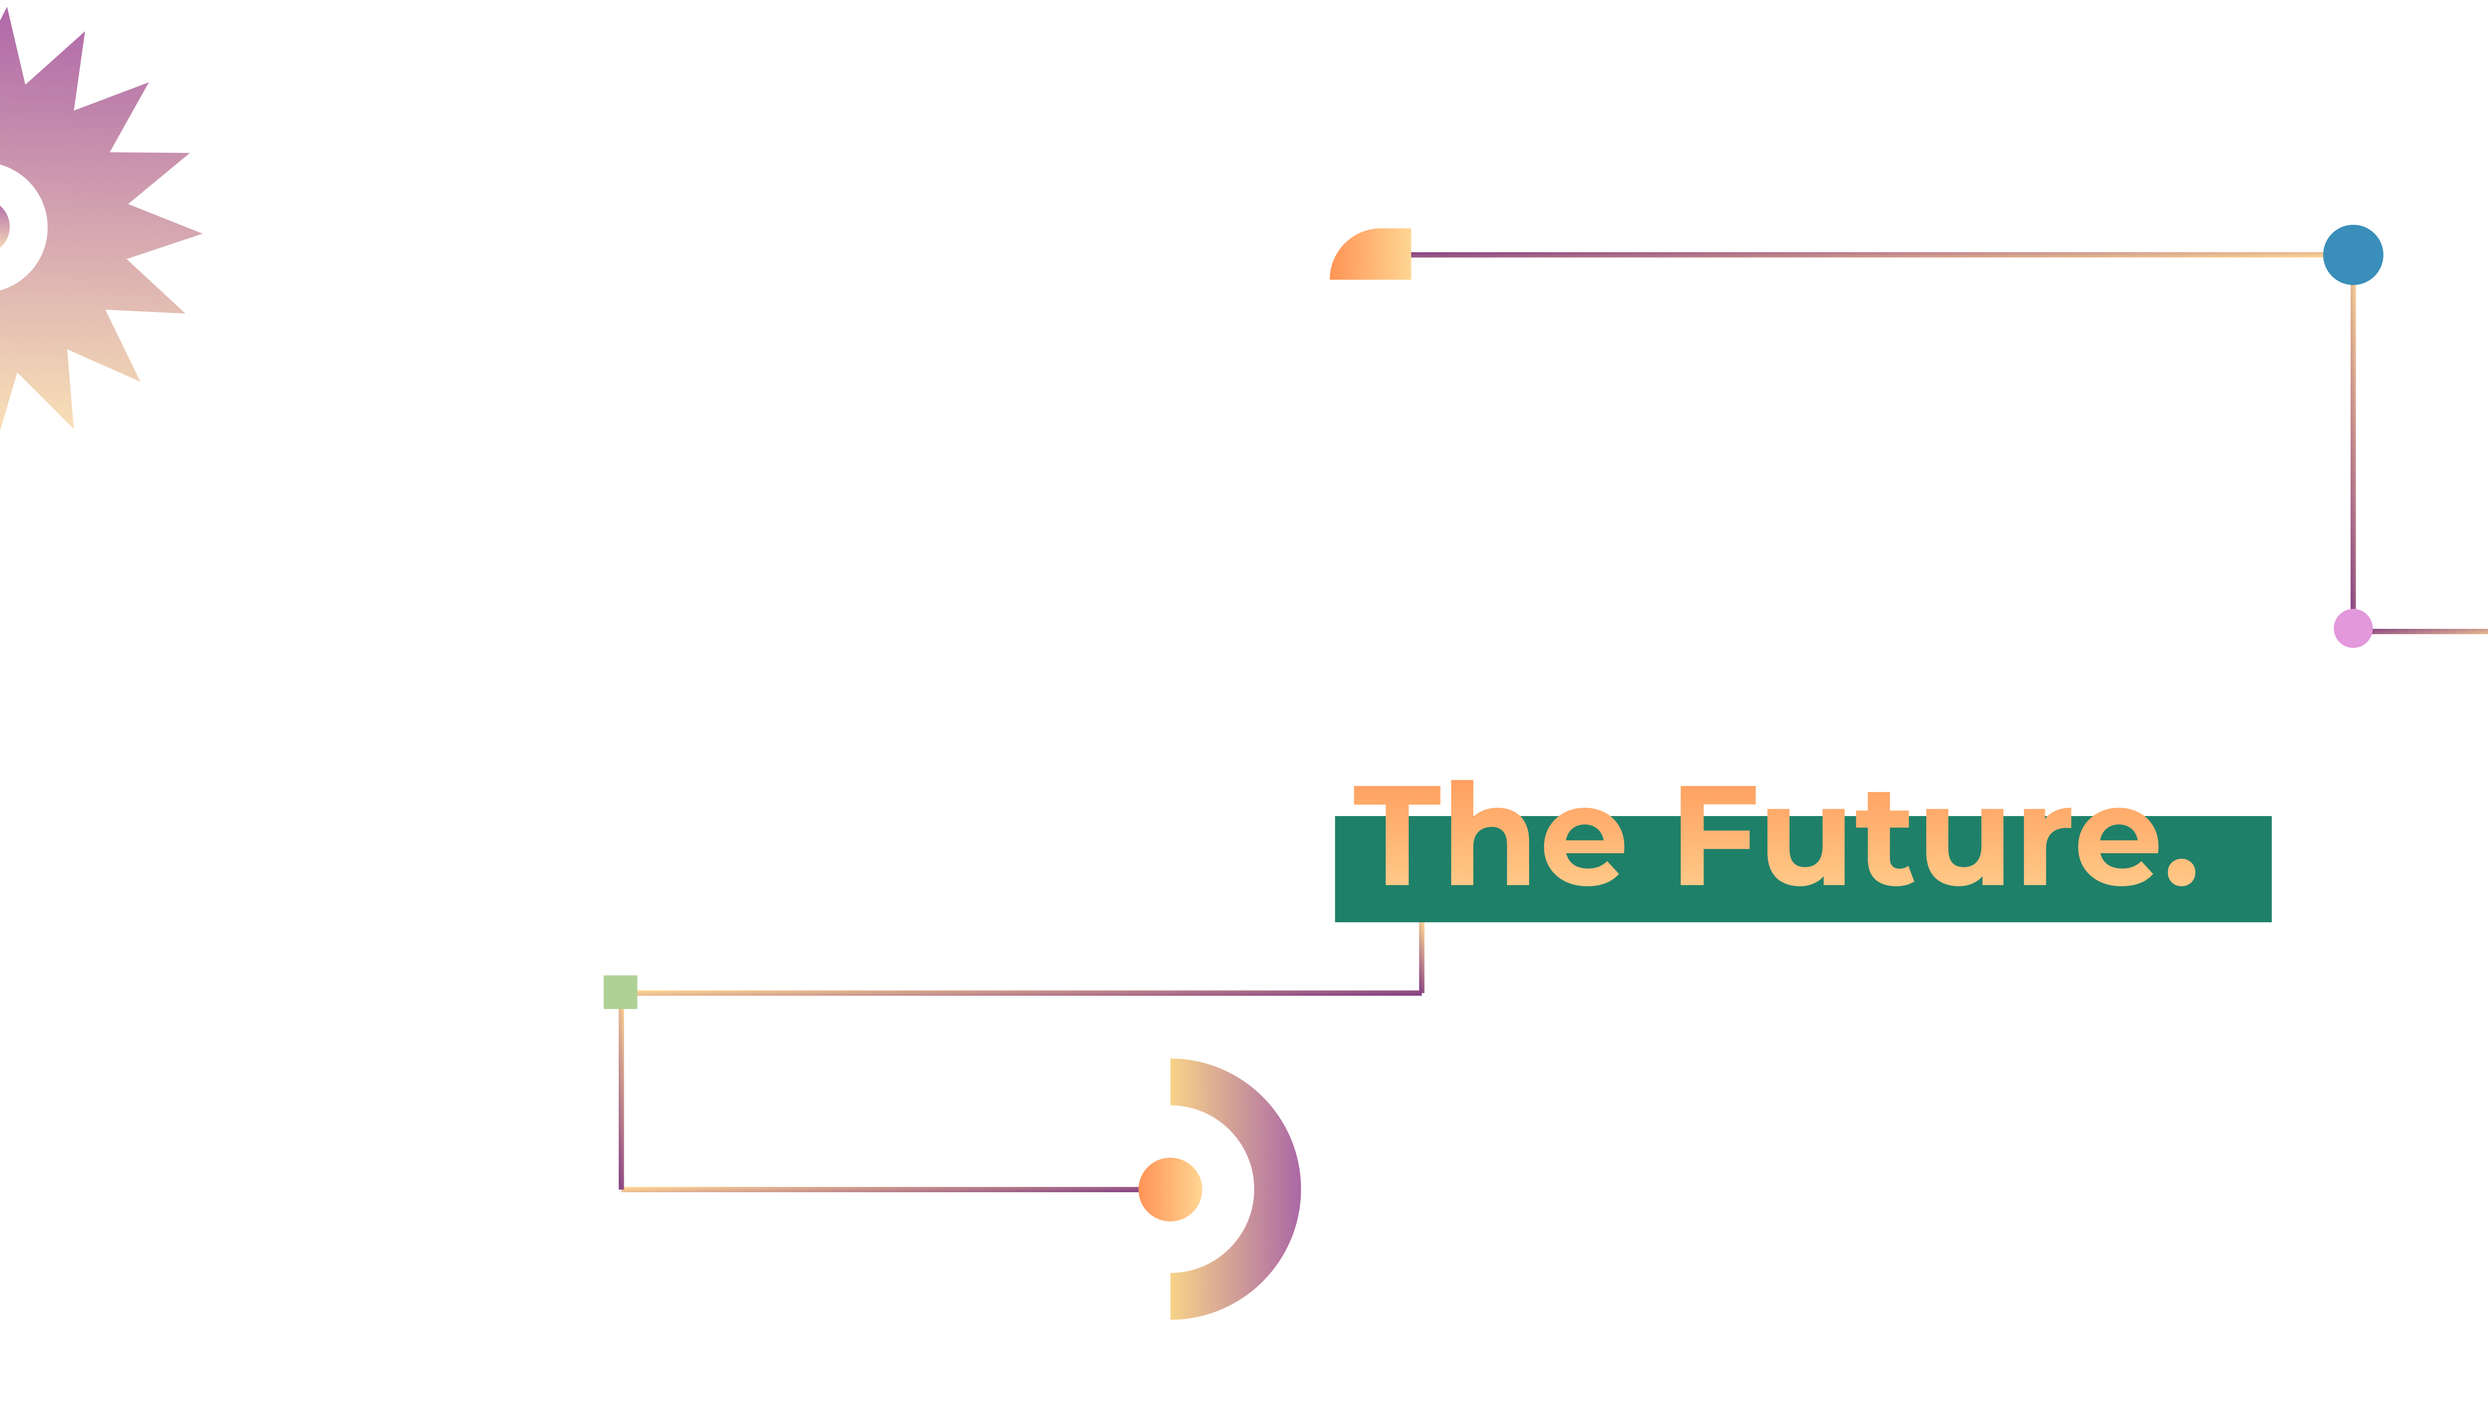
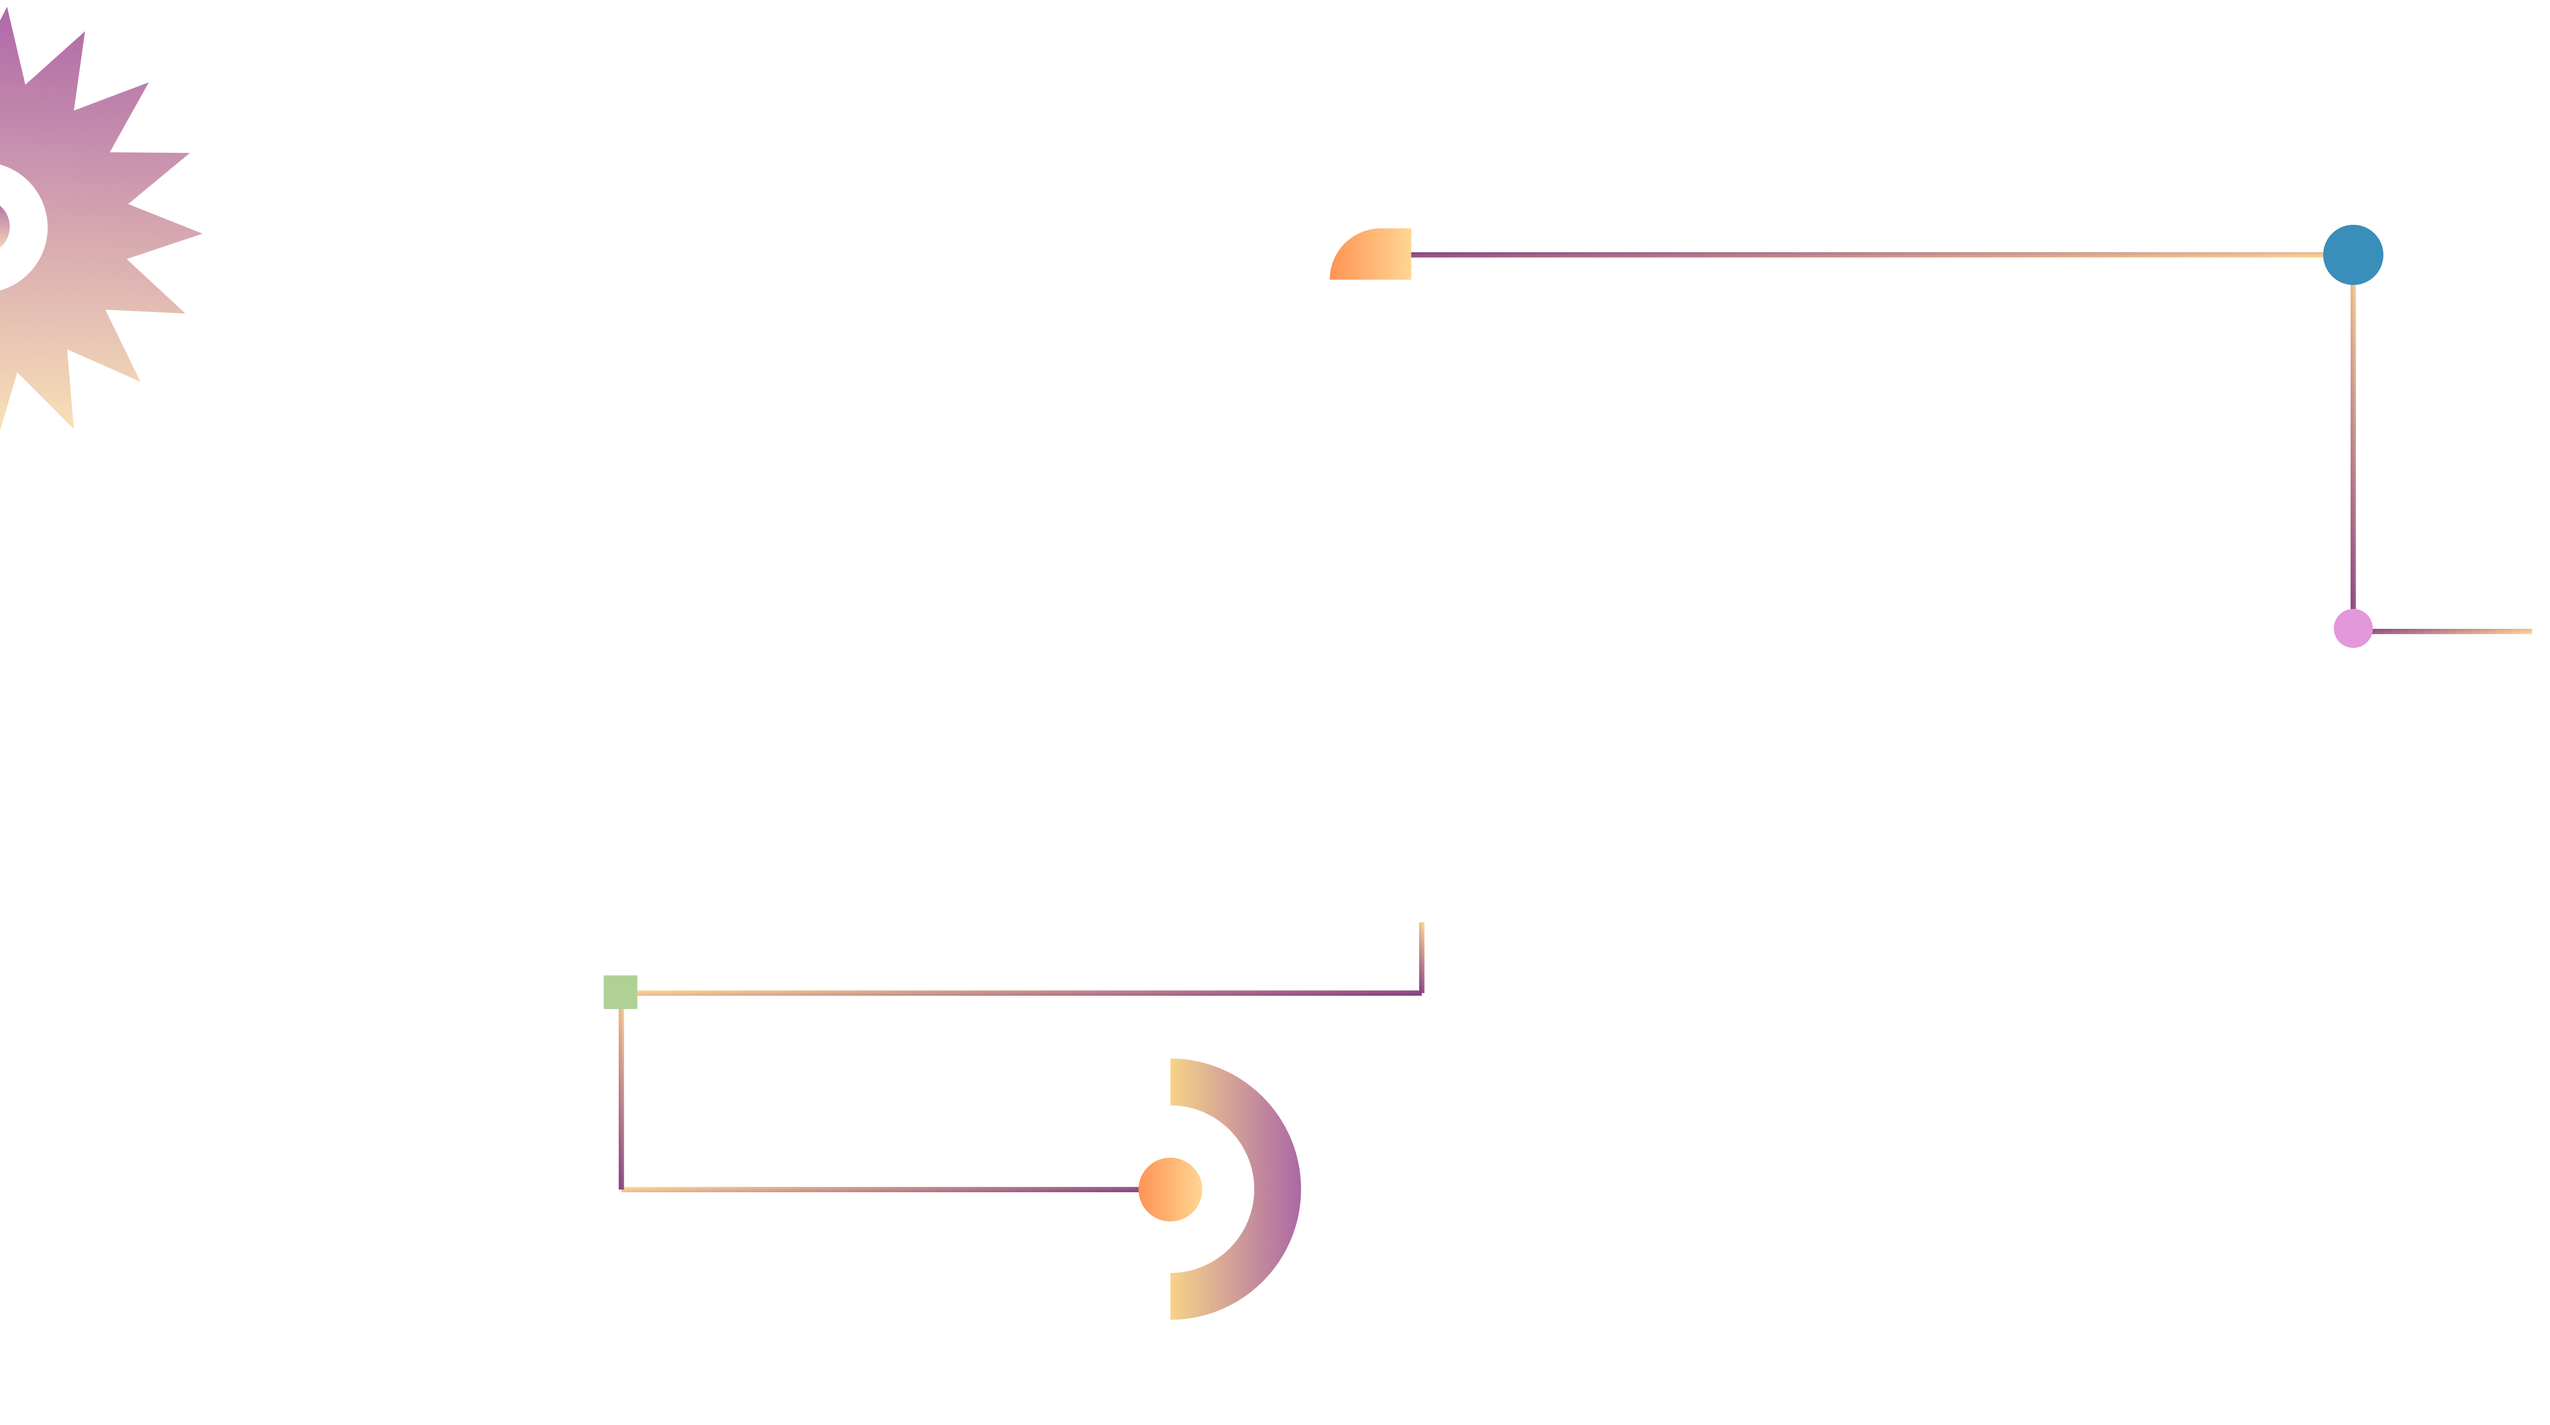
Is 65 fix landing page ise (#90)
* update landing ISE discover

* update quote on discover ISE Landing

* update quote section sm size

* fix(65): update hero section

* fix(65):update section

* fix(65): update hero section

* fix(65): update discover yourself quote

* fix: coming up section

---------

diff --git a/resources/views/livewire/ise-landing.blade.php b/resources/views/livewire/ise-landing.blade.php
@@ -5,14 +5,16 @@
     <div
         class="relative bg-[#121316] w-full h-[362.4px] xs:h-[600px]  sm:h-[660px] md:h-[700px] lg:h-[1000px] xl:h-[1348px] 2xl:h-[1500px] ">
         <div class="relative ">
-            <img class="absolute h-[362px] xs:h-[600px] sm:h-[660px] md:h-[700px] lg:h-[1000px] xl:h-[1348px] 2xl:h-[1500px]  w-full "
-                src="{{ asset('/images/landing/hero.png ') }}">
+            <img class="absolute h-[362px] xs:h-[600px] sm:h-[660px] md:h-[700px] lg:h-[1000px] xl:h-[1348px] 2xl:h-[1500px] w-full"
+                src="{{ asset('/images/landing/hero.png') }}">
+            <img class="absolute w-[157.44px] xs:w-[207.44px] sm:w-[307.44px] md:w-[347.44px] lg:w-[467.44px] xl:w-[527.44px] 2xl:w-[737.44px] left-1/2 top-[150px] xs:top-[235px] sm:top-[275px] md:top-[290px] lg:top-[430px] xl:top-[550px] 2xl:top-[630px] transform -translate-x-1/2 -translate-y-1/2"
+                src="{{ asset('/images/landing/planet.png') }}" alt="">
             <div class="relative ">
-                <h1 class=" text-[18.82px] xs:text-[32px] sm:text-[35px] md:text-[40px] lg:text-[55px] xl:text-[70px] 2xl:text-[88px] text-center text-[#FFEEE4] font-semibold pt-[113px] xs:pt-[185px] sm:pt-[208px] md:pt-[204px] lg:pt-[324px]  xl:pt-[424px] 2xl:pt-[450px]  "data-aos-duration="1500"
+                <h1 class=" text-[18.82px] xs:text-[25px] sm:text-[35px] md:text-[40px] lg:text-[55px] xl:text-[70px] 2xl:text-[88px] text-center text-[#FFEEE4] font-semibold pt-[113px] xs:pt-[185px] sm:pt-[208px] md:pt-[204px] lg:pt-[324px]  xl:pt-[424px] 2xl:pt-[450px]  "data-aos-duration="1500"
                     data-aos="fade-down" {{-- x-intersect="$el.classList.add('opacity-100','translate-y-0')" --}}>
                     Unleash Your Future
                 </h1>
-                <h1 class=" text-[29.57px] xs:text-[52px] sm:text-[56px] md:text-[69px] lg:text-[85px] xl:text-[110px] 2xl:text-[135px] text-center text-[#FFEEE4] font-extrabold mt-[0px] "data-aos="fade-up"
+                <h1 class=" text-[29.57px] xs:text-[42px] sm:text-[56px] md:text-[69px] lg:text-[85px] xl:text-[110px] 2xl:text-[135px] text-center text-[#FFEEE4] font-extrabold mt-[0px] "data-aos="fade-up"
                     data-aos-duration="1500">
                     <span
                         class="bg-gradient-to-b from-[#FF9355] to-[#FFD693] inline-block text-transparent bg-clip-text">#</span>ProvectaFutura
@@ -58,9 +60,9 @@
     {{-- About section --}}
 
     {{-- Coming Up section --}}
-    <div class="mt-[-2px] bg-[#121316] w-full h-[580px] md:h-auto">
+    <div class="mt-[-2px] bg-[#121316] w-full h-[580px] md:h-auto pt-16 md:pt-0">
         <h1 data-aos="zoom-in"
-            class=" text-center text-white font-bold text-[24px] md:text-[45px] lg:text-[56px] xl:text-[72px] pb-[40px] xl:pb-[85px] xl:pt-[70px]">
+            class="-mb-20 md:mb-0 text-center text-white font-bold text-[24px] md:text-[45px] lg:text-[56px] xl:text-[72px] pb-[40px] xl:pb-[85px] xl:pt-[70px]">
             Coming up
         </h1>
         <div class="relative">
@@ -87,8 +89,10 @@
                                 kegiatan ISE! 2023. Secara umum, Grand Talkshow akan membahas mengenai isu teknologi
                                 terkini dan potensinya di kalangan masyarakat luas.
                             </p>
-                            <a href="/login" >
-                                <button class="mt-[4px] md:mt-[12px] lg:mt-[20px] bg-gradient-to-r from-[#D1692D] to-[#FFBF7E] text-white rounded-3xl w-[70px] md:w-[102px] lg:w-[172px] h-[20px] md:h-[30px] lg:h-[39px] text-center font-semibold  text-[8px] md:text-[12px] lg:text-[16px] transform transition duration-300 hover:scale-105">Register Now</button>
+                            <a href="/login">
+                                <button
+                                    class="mt-[4px] md:mt-[12px] lg:mt-[20px] bg-gradient-to-r from-[#D1692D] to-[#FFBF7E] text-white rounded-3xl w-[70px] md:w-[102px] lg:w-[172px] h-[20px] md:h-[30px] lg:h-[39px] text-center font-semibold  text-[8px] md:text-[12px] lg:text-[16px] transform transition duration-300 hover:scale-105">Register
+                                    Now</button>
 
                             </a>
                             {{-- <a href="#"
@@ -106,35 +110,61 @@
 
     {{-- What's new section --}}
     <div
-        class="mt-[-2px] bg-[#121316] w-full h-[291.05px] md:h-[600px] lg:h-[761px] xl:h-[1000px] pt-0 lg:pt-[70px] xl:pt-[73px] ">
+        class="relative mt-[-2px] bg-[#121316] w-full h-[291.05px] md:h-[600px] lg:h-[761px] xl:h-[1000px] pt-0 lg:pt-[70px] xl:pt-[73px] ">
         <div class="relative">
-            <img class="absolute xl:h-[677.8px] xl:w-[1429px] mt-[68px] md:mt-[145px] lg:mt-[190px] xl:mt-[258px] pr-[28px] md:pr-[45px] lg:pr-[85px] xl:pr-[85px] 2xl:pr-[0px]"
-                src="{{ asset('/images/landing/background-1.png ') }}">
-            <h1 data-aos="zoom-in"
-                class="text-center text-white font-bold text-[24px] md:text-[45px] lg:text-[56px] xl:text-[72px] pt-[19px] xl:pt-[73px]">
-                What’s New</h1>
-            <img class="w-[250px] md:w-[470px] lg:w-[600px] xl:w-[860px] h-[104px] md:h-[167px] lg:h-[260px] xl:h-[388px] mt-[16px] md:mt-[108px] mx-auto transform transition duration-300 hover:scale-105"
-                src="{{ asset('/images/landing/whatsnewimage.png ') }}">
-            <div class="text-center">
-                <h1
-                    class="text-white font-bold text-[16px] xl:text-[24px] text-center mt-[10px] md:mt-[33px]  mb-[5.3px] xl:mb-[20px] ">
-                    PARADIGM</h1>
-                <h1 class="text-white font-medium text-[14px] xl:text-[18px] text-center mb-[8.62px] xl:mb-[36px]">THE
-                    EXCITEMENT OF A LIFETIME</h1>
-                {{-- <p class="bg-gradient-to-r from-[#006C56] to-[#AFD196] inline-block text-transparent bg-clip-text ">Read
-                    More</p> --}}
+            <div class="relative">
+                <img class="absolute w-[50px] md:w-[127px] lg:w-[207px] xl:w-[287px] hidden xl:block 2xl:hidden md:top-[185px] lg:top-[190px] xl:top-[265px]"
+                    src="{{ asset('/images/landing/background-1.png ') }}" alt="">
+                <img class="absolute hidden xl:block 2xl:hidden md:w-[97px] lg:w-[147px] xl:w-[197px] md:left-[610px] lg:left-[820px] xl:left-[1060px] md:top-[230px] lg:top-[290px] xl:top-[370px]"
+                    src="{{ asset('/images/landing/background-2.png ') }}" alt="">
+
             </div>
+            <h1 data-aos="zoom-in"
+                    class="text-center text-white font-bold text-[24px] md:text-[45px] lg:text-[56px] xl:text-[72px] pt-[19px] xl:pt-[73px]">
+                    What’s New</h1>
+                <img class=" md:w-[470px] lg:w-[600px] xl:w-[850px] h-[104px] md:h-[187px] lg:h-[290px] xl:h-[378px] mt-[16px] md:mt-[108px] transform transition duration-300 hover:scale-105 mx-auto"
+                    src="{{ asset('/images/landing/whatsnewimage.png ') }}">
+                <div class="text-center ">
+                    <h1
+                        class="text-white font-bold text-[16px] xl:text-[24px] text-center mt-[10px] md:mt-[33px]  mb-[5.3px] xl:mb-[20px] ">
+                        PARADIGM</h1>
+                    <h1 class="text-white font-medium text-[14px] xl:text-[18px] text-center mb-[8.62px] xl:mb-[36px]">
+                        THE
+                        EXCITEMENT OF A LIFETIME</h1>
+                    {{-- <p class="bg-gradient-to-r from-[#006C56] to-[#AFD196] inline-block text-transparent bg-clip-text ">Read
+                    More</p> --}}
+                </div>
+            {{-- <img class="absolute xl:h-[677.8px] xl:w-[1429px] mt-[68px] md:mt-[145px] lg:mt-[190px] xl:mt-[258px] pr-[28px] md:pr-[45px] lg:pr-[85px] xl:pr-[85px] 2xl:pr-[0px]"
+                src="{{ asset('/images/landing/background-1.png ') }}"> --}}
+
         </div>
     </div>
     {{-- What's section --}}
 
     <!-- Discover -->
-    <div class="relative">
-        <div class="mt-[-2px] bg-[#121316]">
-            <img src="{{ asset('/images/landing/discover.png') }}" class=" w-full lg:h-[770px] xl:h-[805px]"
+    <div class="mt-[-2px] bg-[#121316]">
+        <div class="relative">
+            <img src="{{ asset('/images/landing/discover.png') }}" class="w-full lg:h-[620px] xl:h-[805px]"
                 alt="">
+            <div class="absolute inset-0 flex flex-col justify-center items-center">
+                <blockquote
+                    class="text-center text-white text-[20px] sm:text-[38px] md:text-[45px] lg:text-[60px] xl:text-[80px] font-bold ml-[-120px] sm:ml-[-180px] md:ml-[-230px] lg:ml-[-300px] xl:ml-[-400px]">
+                    Discover Yourself<br>
+                    <div class="ml-[230px] sm:ml-[380px] md:ml-[480px] lg:ml-[620px] xl:ml-[830px]">
+                        Be
+                        <span
+                            class=" relative inline-block before:absolute before:inset-y-2 sm:before:inset-y-4 md:before:inset-y-4 lg:before:inset-y-6 xl:before:inset-y-8 before:-inset-x-2 sm:before:-inset-x-4 md:before:-inset-x-4 lg:before:-inset-x-5 xl:before:-inset-x-6 before:block before:translate-x-4 before:translate-y-1 sm:before:translate-y-2 md:before:translate-y-3 lg:before:translate-y-4 xl:before:translate-y-5 before:bg-[#1F8069]">
+                            <span
+                                class="relative bg-gradient-to-b from-[#FF9355] to-[#FFD693] inline-block text-transparent bg-clip-text">
+                                The Future.
+                            </span>
+                        </span>
+                    </div>
+                </blockquote>
+            </div>
         </div>
     </div>
+
     <!-- Discover -->
 
     {{-- Introducing --}}
@@ -438,30 +468,33 @@
 
     <!-- Carousel -->
     <div class="mt-[-2px] relative pb-8 sm:pb-32 bg-[#121316]">
-        <div
-            class="w-full  h-[290px] md:h-[400px] lg:h-[680px] xl:h-[810px] flex items-center justify-between">
-            <div
-                class="relative w-2/3">
+        <div class="w-full  h-[290px] md:h-[400px] lg:h-[680px] xl:h-[810px] flex items-center justify-between">
+            <div class="relative w-2/3">
                 <!-- Swiper -->
                 <div class="swiper mySwiper">
                     <div class="swiper-wrapper space-x-4">
-                        <div class="swiper-slide h-28 md:h-56 lg:h-80 xl:h-96 flex flex-col items-center justify-center object-contain">
+                        <div
+                            class="swiper-slide h-28 md:h-56 lg:h-80 xl:h-96 flex flex-col items-center justify-center object-contain">
                             <img src="{{ asset('images/landing/carousel-1.png') }}" alt="">
                         </div>
-                        <div class="swiper-slide h-28 md:h-56 lg:h-80 xl:h-96 flex flex-col items-center justify-center object-contain">
+                        <div
+                            class="swiper-slide h-28 md:h-56 lg:h-80 xl:h-96 flex flex-col items-center justify-center object-contain">
                             <img src="{{ asset('images/landing/carousel-2.png') }}" alt="">
                         </div>
-                        <div class="swiper-slide h-28 md:h-56 lg:h-80 xl:h-96 flex flex-col items-center justify-center object-contain">
+                        <div
+                            class="swiper-slide h-28 md:h-56 lg:h-80 xl:h-96 flex flex-col items-center justify-center object-contain">
                             <img src="{{ asset('images/landing/carousel-3.png') }}" alt="">
                         </div>
-                        <div class="swiper-slide h-28 md:h-56 lg:h-80 xl:h-96 flex flex-col items-center justify-center object-contain">
+                        <div
+                            class="swiper-slide h-28 md:h-56 lg:h-80 xl:h-96 flex flex-col items-center justify-center object-contain">
                             <img src="{{ asset('images/landing/carousel-4.png') }}" alt="">
                         </div>
                     </div>
                 </div>
             </div>
             <div class="w-1/3">
-                <div class="flex flex-col gap-4 items-center justify-center rotate-90 text-2xl sm:text-4xl md:text-5xl xl:text-7xl font-bold text-white text-center tracking-wider whitespace-nowrap uppercase">
+                <div
+                    class="flex flex-col gap-4 items-center justify-center rotate-90 text-2xl sm:text-4xl md:text-5xl xl:text-7xl font-bold text-white text-center tracking-wider whitespace-nowrap uppercase">
                     <h2>Throwback</h2>
                     <h2>ISE! 2022</h2>
                 </div>
